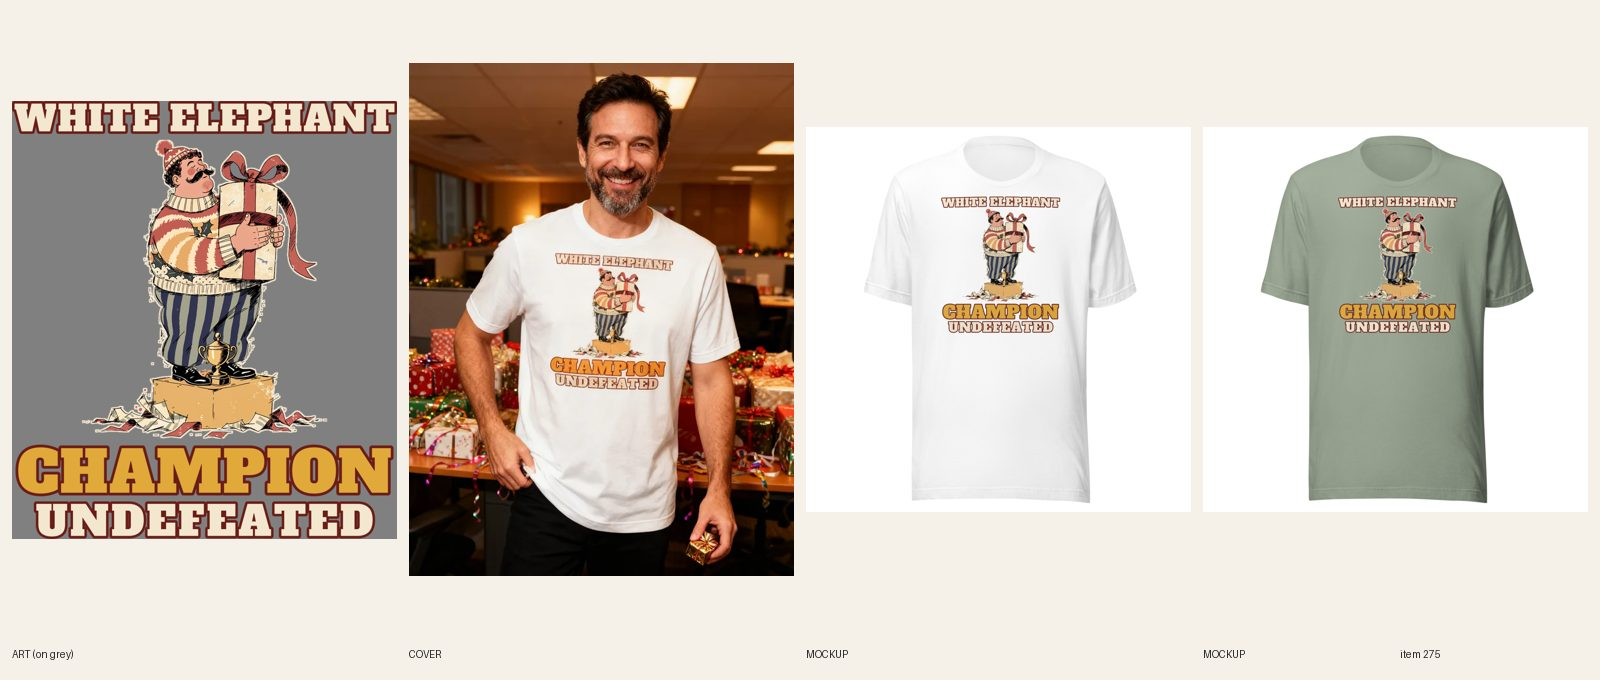
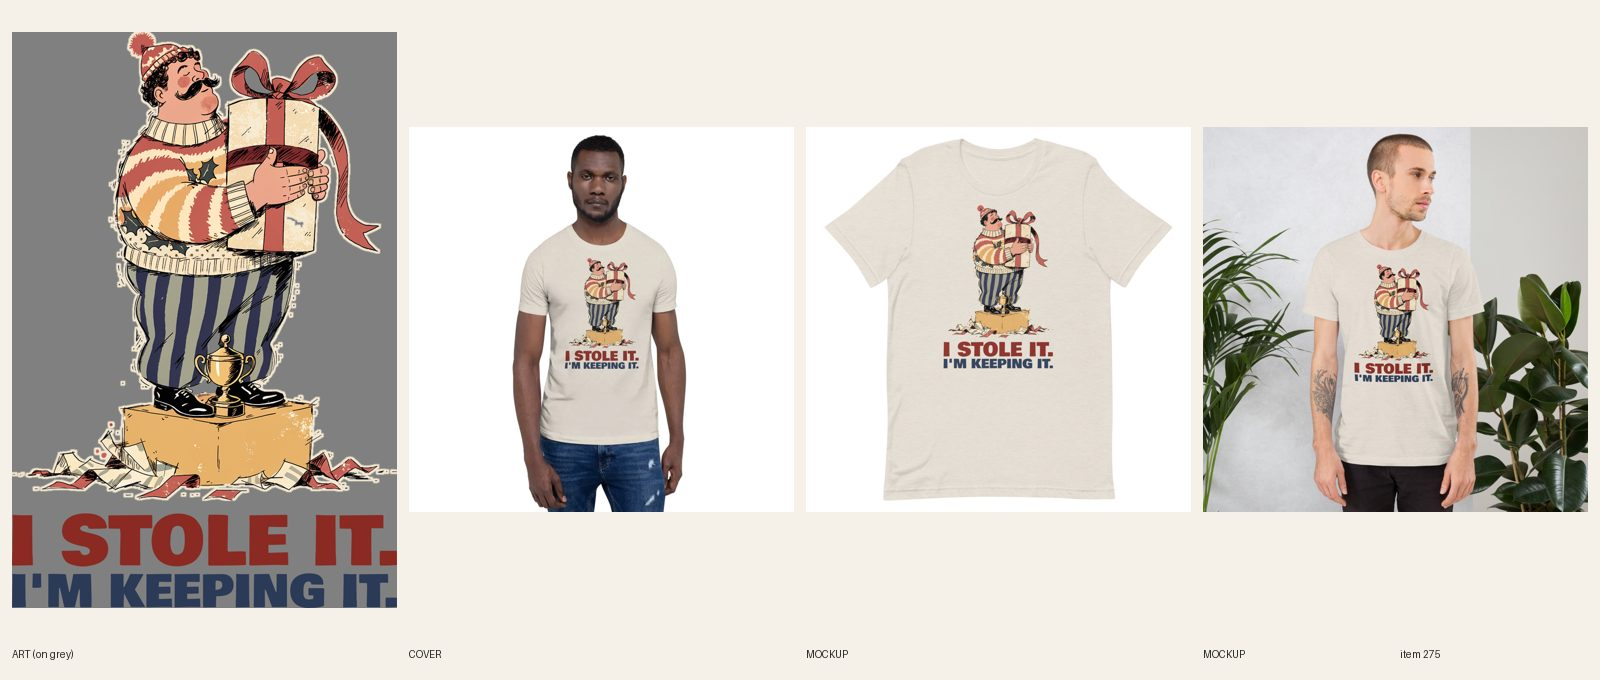
[A] review 275 White Elephant redo: I Stole It. I'm Keeping It. heavy type, Printful lifestyle cover

diff --git a/src/data/covers.ts b/src/data/covers.ts
@@ -252,7 +252,7 @@ export const covers: Record<string, { src: string; alt: string }> = {
   'womens-hanukkah-fried-food-is-tradition-graphic-tee': { src: '/covers/womens-hanukkah-fried-food-is-tradition-graphic-tee.webp', alt: 'Woman in her late 20s with a short black pixie cut and pearl earrings in a white Eight Nights of Fried Food Hanukkah graphic tee in a warm kitchen with a plate of latkes and applesauce on the counter' },
   'mens-grandpa-i-fix-things-after-naps-crewneck-sweatshirt': { src: '/covers/mens-grandpa-i-fix-things-after-naps-crewneck-sweatshirt.webp', alt: 'Man in his late 60s with a white beard and a flannel collar in a navy I Fix Things After Naps grandpa crewneck sweatshirt in a garage workshop with a pegboard of tools' },
   'mens-fishing-love-language-crewneck-sweatshirt': { src: '/covers/mens-fishing-love-language-crewneck-sweatshirt.webp', alt: 'Man in his early 50s with a grey beard in a navy Fishing Is My Love Language crewneck sweatshirt on a lake dock at golden hour with a tackle box and fishing rods' },
-  'mens-christmas-white-elephant-champion-graphic-tee': { src: '/covers/mens-christmas-white-elephant-champion-graphic-tee.webp', alt: 'Man in his 40s with a grey-flecked beard in a white White Elephant Champion Christmas graphic tee at an office holiday party with a table of wrapped gifts and streamers' },
+  'mens-christmas-white-elephant-champion-graphic-tee': { src: '/covers/mens-christmas-white-elephant-champion-graphic-tee.webp', alt: 'Man in a heather dust I Stole It. I\'m Keeping It. Christmas white elephant graphic tee, standing straight on at a white studio backdrop' },
   'mens-christmas-white-elephant-champion-crewneck-sweatshirt': { src: '/covers/mens-christmas-white-elephant-champion-crewneck-sweatshirt.webp', alt: 'Man in his early 40s with a goatee in a navy White Elephant Champion Christmas crewneck sweatshirt in a living room with a tree and torn wrapping paper from a gift swap' },
   'unisex-hanukkah-spin-responsibly-graphic-tee': { src: '/covers/unisex-hanukkah-spin-responsibly-graphic-tee.webp', alt: 'Man and woman in navy Spin Responsibly Hanukkah graphic tees at a friends game night in a bright white kitchen with gold gelt on the counter' },
   'unisex-christmas-garden-variety-grump-graphic-tee': { src: '/covers/unisex-christmas-garden-variety-grump-graphic-tee.webp', alt: 'Man and woman in white I\'ll Be Pleasant Till New Year\'s Christmas gnome graphic tees in a living room on Christmas morning with a tree and torn wrapping paper' },

diff --git a/designs/a275/build.py b/designs/a275/build.py
@@ -1,0 +1,26 @@
+#!/usr/bin/env python3
+"""#275 quality-reset print: White Elephant art (cropped from the live print, old Alfa Slab lines dropped)
+over a stacked lockup I STOLE IT. / I'M KEEPING IT. in Bowlby One, both lines full width. usage: build.py <src.png> <out.png>"""
+import sys
+from pathlib import Path
+import numpy as np
+from PIL import Image, ImageDraw, ImageFont
+ROOT = Path(__file__).resolve().parents[2]; F = ROOT / 'designs' / 'fonts'
+src, out = sys.argv[1:3]
+W = 3400
+a = Image.open(src).convert('RGBA')
+art = a.crop((0, 300, a.width, 2735)); art = art.crop(art.getbbox())
+art = art.resize((W, int(art.height * W / art.width)), Image.LANCZOS)
+def line(text, fill, width, size=900):
+    f = ImageFont.truetype(str(F / 'BowlbyOne-Regular.ttf'), size)
+    bb = f.getbbox(text)
+    img = Image.new('RGBA', (bb[2] + 40, bb[3] + 40), (0, 0, 0, 0))
+    ImageDraw.Draw(img).text((10, 10), text, font=f, fill=fill)
+    img = img.crop(img.getbbox())
+    return img.resize((width, int(img.height * width / img.width)), Image.LANCZOS)
+h = line('I STOLE IT.', '#8a2a22', W); s = line("I'M KEEPING IT.", '#2b3a57', W)
+g1, g2 = 110, 60
+c = Image.new('RGBA', (W, art.height + g1 + h.height + g2 + s.height), (0, 0, 0, 0))
+c.alpha_composite(art, (0, 0)); c.alpha_composite(h, (0, art.height + g1)); c.alpha_composite(s, (0, art.height + g1 + h.height + g2))
+c = c.crop(c.getbbox()); c.save(out, dpi=(300, 300))
+print(out, c.size, 'head h', h.height, 'sub h', s.height, 'ratio %.2f' % (s.height / h.height))

diff --git a/docs/pipeline/275-christmas-white-elephant-champion.md b/docs/pipeline/275-christmas-white-elephant-champion.md
@@ -1,4 +1,4 @@
-status: BUILDING [A]
+status: REVIEW
 lane: A
 type: new
 id: 275
@@ -29,3 +29,4 @@ kd: 43
 - 2026-10-18 02:06 UTC builder [A]: BUILT. Art: 1 Recraft call ($0.04, picture only: mustached man in a striped Christmas sweater and bobble hat on a podium hugging a gift like a championship belt, gold trophy, crumpled paper). WHITE ELEPHANT / CHAMPION / UNDEFEATED set in Alfa Slab One (cream + mustard, dark-red outline; real fonts R4.8, not arched); UNDEFEATED widened to 84% of the print width after the first 400 px phone read was too small (7b); enclosed white patches knocked out. Print 3107x3532, Printful file 1088606513, FW 1650, 47/47 variants linked, back logo kept. Shopify DRAFT (gid 15363031269680, BC 3001, White/Natural/Heather Dust/Athletic Heather/Ash/Tan/Sage x S-4XL, Sage has 5 sizes, $24.99 no compare-at): copy rewritten to the art (it said the lettering arches; it does not), FAQs 5 x 45-52 words incl. order-by Dec 8, primary 'white elephant shirt' in line one. Mockups for all 7 colors + back, each color's variants on its own photo. Cover reg #455 (generated look logged; the reserved mustache look stays free), seedream 1 attempt: all three lines legible, gift held low, nothing over the print. fal ~$0.10. Audit script not runnable on drafts here; astro build passes.
 - 2026-10-18 02:45 UTC director: LIVE (ACTIVE + Online Store/Headless/Google & YouTube, audit PASS 0 warn). Added christmas-shirts-for-men + funny-christmas-shirts tags (R7.5: men's Christmas tee with a joke).
 - 2026-10-18 17:22 UTC director: QUALITY RESET grade C (new line + type), REDO. The product stays ACTIVE (same handle, URL, title keyword). 1. Line (R3.12, quality-reset 'Lines'): "WHITE ELEPHANT / CHAMPION / UNDEFEATED": Stock champion/undefeated template, no twist. Write 5 candidates, keep the one a stranger laughs at in 3 seconds without backstory; kill lines that only describe the picture; if none of the 5 is funny, PARK it. 2. Quality reset type bar (docs/backlog/quality-reset.md, 'The new bar'): headline at least 90% of the art width, heavy, colors pulled from the art; second line at least 45% of the headline's height, never a thin script on a dark or mid garment; use the lettering as a shape (arch, stacked lockup, words breaking into the art), not a plain bar above and a script line below; no font used on more than 1 in 6 of the last 30 designs. 3. Keep the art if it carries the new line, else one new illustration (R4/R5). New print means a new cover per R6.10, copy line one rewritten for the new joke (R8.3), and a fresh review sheet (R7.7). While quality-reset.md says PAUSED, only lane A builds, and only the samples step 2 names.
+- 2026-10-18 20:30 UTC builder [A]: quality-reset REDO sample 4 of 5. Five candidates (R3.12): WHITE ELEPHANT CHAMPION UNDEFEATED (old, stock template) / I STOLE IT. I'M KEEPING IT. / NO TAKE-BACKS. / THREE STEALS. ZERO REGRETS. / YOU'LL GET IT BACK IN JANUARY. (no); kept #2, a stranger gets it in 3 s with no backstory. Art: same man-on-podium picture, old three Alfa Slab lines dropped (fal $0). Type: Bowlby One (new to this batch), I STOLE IT. dark red #8a2a22 and I'M KEEPING IT. navy #2b3a57 (from the trousers), both 3400 px = 100% of art width, second line 65% of headline height, no script. Light colors only, one dark-ink file (light file: n/a, no light-ink headline). Printful file 1089080077 (3400x5083), FW 1500 TOP 75 (first try at 1650 clipped the second line: print was 16.4 in tall on a 16 in area; caught at the first mockup, FORCE relink at 1500, 47/47). New fronts for all 7 colors attached and linked, old fronts deleted, read at 400 px. Cover: Printful lifestyle Men's 2 Front (style 798) on Heather Dust, plain studio, nothing over the print, alt starts Man. Copy line one, SEO and 5 FAQs (49-53 words, order-by Dec 8) rewritten; no frame/badge words. design-crops rerun, audit --handle PASS, astro build OK. Twin #276 (crewneck) still carries the old line. Product stays ACTIVE. Needs Sam's look.

diff --git a/docs/intake-log.md b/docs/intake-log.md
@@ -1,5 +1,5 @@
-2026-10-18 20:00 UTC — [A] RUNNING lane A since 2026-10-18 20:00 UTC
 2026-10-18 20:14 UTC — [D] Director run (quality reset still PAUSED, step 1 only): no designs went LIVE since the 17:23 grading, so nothing new to grade. Published nothing, reviewed no REVIEW items (samples #577, #624, #245 are 3 of 5 at REVIEW for Sam), wrote no briefs, sent no Telegram. Lock not held.
+2026-10-18 20:31 UTC — [A] Builder run: quality-reset sample REDO #275 White Elephant Champion tee -> I STOLE IT. / I'M KEEPING IT. (Bowlby One, full width), Printful lifestyle cover, 47/47 relinked at FW 1500, REVIEW (stays ACTIVE). Sample 4 of 5 (Printful call worked this time). Next: 1 more from the C list. Lock released.
 2026-10-18 19:46 UTC — [H] Helper run: Telegram inbox empty (getUpdates returned 0 updates; nothing to consume; no pause, resume or TikTok links). Audit (597 products): 0 errors, 30 warnings left alone (polish); no meta, SEO or collection fixes needed; no price errors, so the announcement bar already carries the holiday line. Category check (one-time rule, still checking): 0 products without a category (positive control returns aa-1-13-8). Site freshness: mens-running-i-only-run-downhill-graphic-tee, mens-welder-i-basically-hot-glue-metal-graphic-tee, womens-nana-mom-said-no-thats-cute-crewneck-sweatshirt all 200. Stuck check: none (0 items BUILDING; no lane lock older than 2 hours; newest lane commits A 19:31, D 19:15, E 17:47). Daily summary not due (midday digest sent 12:24 UTC). Housekeeping: local main held 50 unpushed commits from 2026-10-16 that diverged from origin; kept them as local branch backup-stale-local-main and reset main to origin/main (33d7dd2). Lock released.
 2026-10-18 19:31 UTC — [A] Builder run: quality-reset sample 4 of 5 (#275 White Elephant Champion tee) NOT built: the sandbox's auto-mode classifier denied the Printful lookup (pf-find.py, uses PRINTFUL_TOKEN) as credential use, so no Printful upload/sync was possible. Claim released, #275 back to REDO. Lock released.
 2026-10-18 19:15 UTC — [D] Director run (quality reset still PAUSED, step 1 only): no designs went LIVE since the 17:23 grading, so nothing new to grade. Published nothing, reviewed no REVIEW items (samples #577, #624, #245 are 3 of 5 at REVIEW for Sam), wrote no briefs, sent no Telegram. Lock not held.
